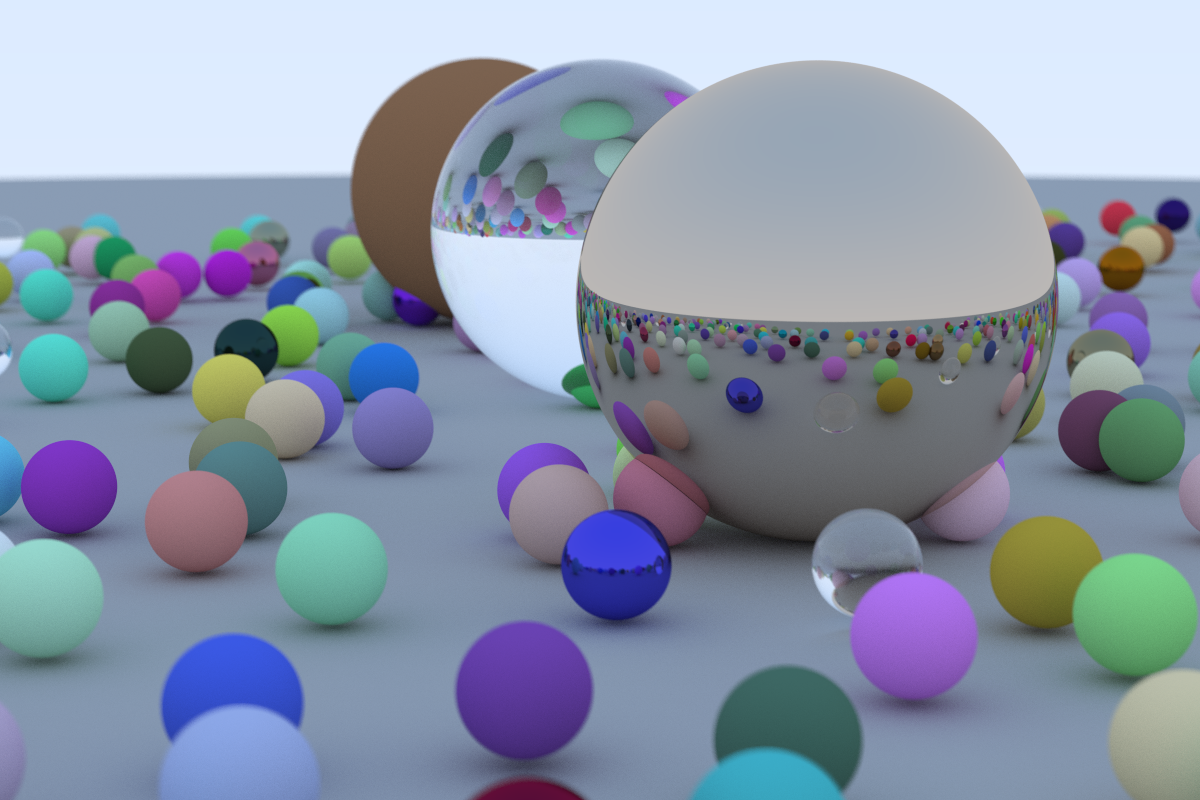
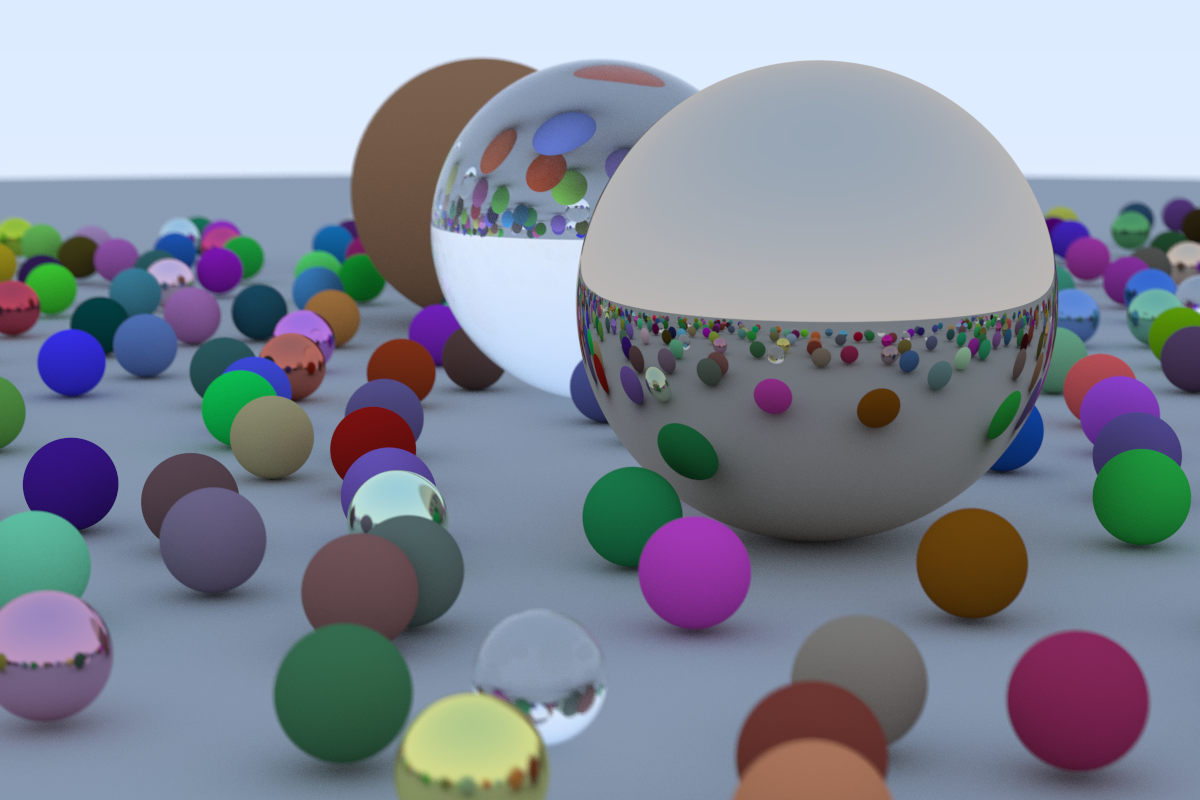
Fix cover render. Add option to run non-parallel for profiling.

diff --git a/src/main.rs b/src/main.rs
@@ -3,7 +3,7 @@ use std::path::Path;
 use clap::{Arg, App};
 
 
-use wasm_ray::trace_rays_parallel;
+use wasm_ray::{trace_rays, trace_rays_parallel};
 
 
 fn main() {
@@ -23,16 +23,26 @@ fn main() {
                           .arg(Arg::with_name("fname")
                                .help("output file name")
                                .index(4))
+                          .arg(Arg::with_name("non-parallel")
+                               .long("non-parallel")
+                               .required(false)
+                               .takes_value(false))
                           .get_matches();
 
     let width = matches.value_of("width").unwrap_or("800").parse::<u32>().unwrap_or(800);
     let height = matches.value_of("height").unwrap_or("450").parse::<u32>().unwrap_or(450);
     let aa = matches.value_of("aa").unwrap_or("1").parse::<u32>().unwrap_or(1);
     let fname = matches.value_of("fname").unwrap_or("image.png");
+    let parallel = !matches.is_present("non-parallel");
 
     println!("Calling trace_rays_()");
 
-    let im = trace_rays_parallel(width, height, aa);
+    let im;
+    if parallel {
+        im = trace_rays_parallel(width, height, aa);
+    } else {
+        im = trace_rays(width, height, aa);
+    }
 
     let result = image::save_buffer(&Path::new(fname), &im.image, width, height, image::ColorType::Rgb8);
 

diff --git a/src/lib.rs b/src/lib.rs
@@ -387,6 +387,10 @@ fn cover_scene() -> Vec<Box<dyn wobject::Wobject + Send + Sync>> {
                 z: b  as f32 + 0.9*rng.gen::<f32>(),
             };
 
+            if (center - Point{x: 4.0, y: 0.2, z: 0.0}).length() <= 0.9 {
+                continue;
+            }
+
             let radius = 0.2;
 
             let sphere;
@@ -395,7 +399,7 @@ fn cover_scene() -> Vec<Box<dyn wobject::Wobject + Send + Sync>> {
                     center,
                     radius,
                     material: Material::Lambertian {
-                        color: Color::random(),
+                        color: Color::random() * Color::random(),
                         fuzz: 1.0,
                     },
                 }) as Box<dyn wobject::Wobject + Send + Sync>;
@@ -404,7 +408,7 @@ fn cover_scene() -> Vec<Box<dyn wobject::Wobject + Send + Sync>> {
                     center,
                     radius,
                     material: Material::Metal {
-                        color: Color::random() * Color::random(),
+                        color: Color::random(),
                         fuzz: rng.gen::<f32>(),
                     },
                 }) as Box<dyn wobject::Wobject + Send + Sync>;

diff --git a/src/wobject.rs b/src/wobject.rs
@@ -43,7 +43,7 @@ impl Wobject for Sphere {
             }
 
             let p = ray.at(t);
-            let outward_normal = (p - self.center).unit();
+            let outward_normal = (self.radius * (p - self.center)).unit();
             let front_face = ray.direction.dot(&outward_normal) < 0.0;
             let normal = if front_face { outward_normal } else { -outward_normal };
 

diff --git a/README.md b/README.md
@@ -2,9 +2,9 @@
 
 ![Cover Image](/renders/cover_image.png)
 
-~~A live demo of the current code should be available at https://aga3.xyz/wasm-ray~~
+A live demo ~~of the current code~~ is available at https://aga3.xyz/wasm-ray
 
-*The wasm-based live demo is probably not working for now.*
+*The wasm-based live demo lags far behind the native version due to performance limitations.*
 
 I pretty quickly ran into performance issues with the wasm version. I have not
 been able to successfully parallelize that version, and I'm not sure it's even
